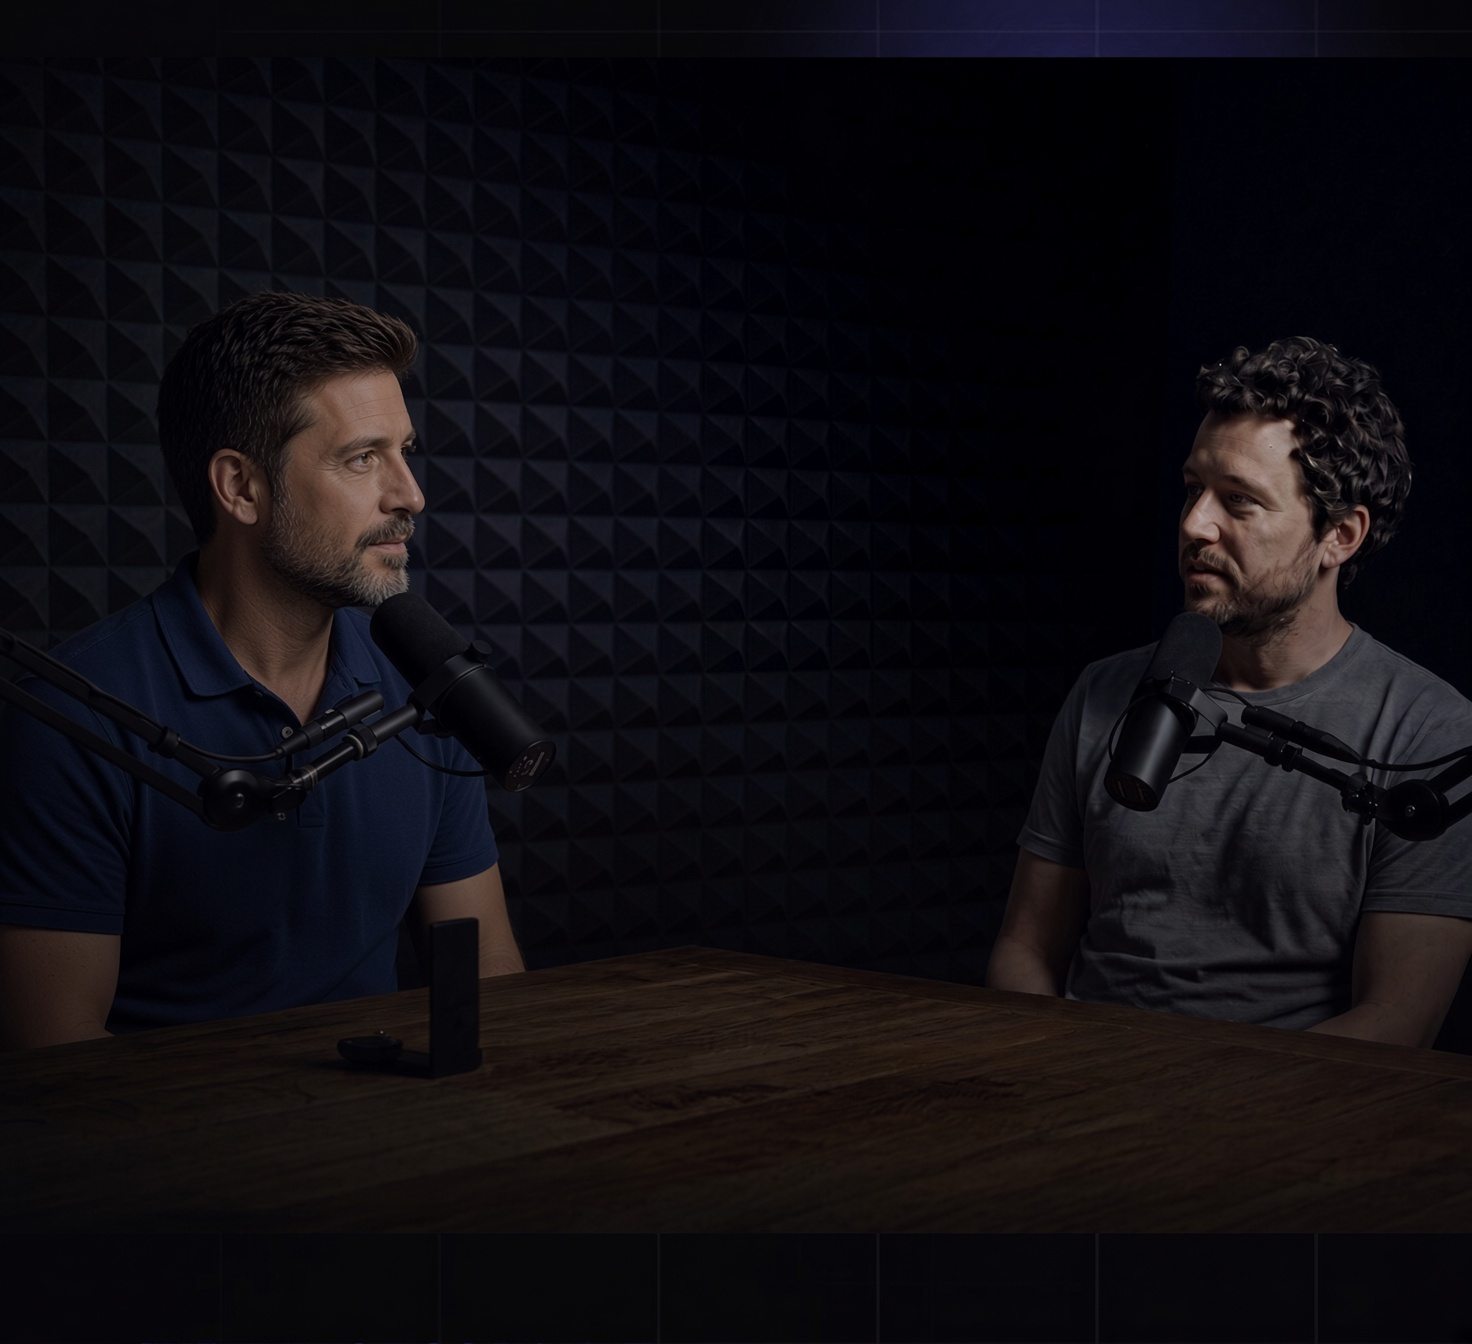
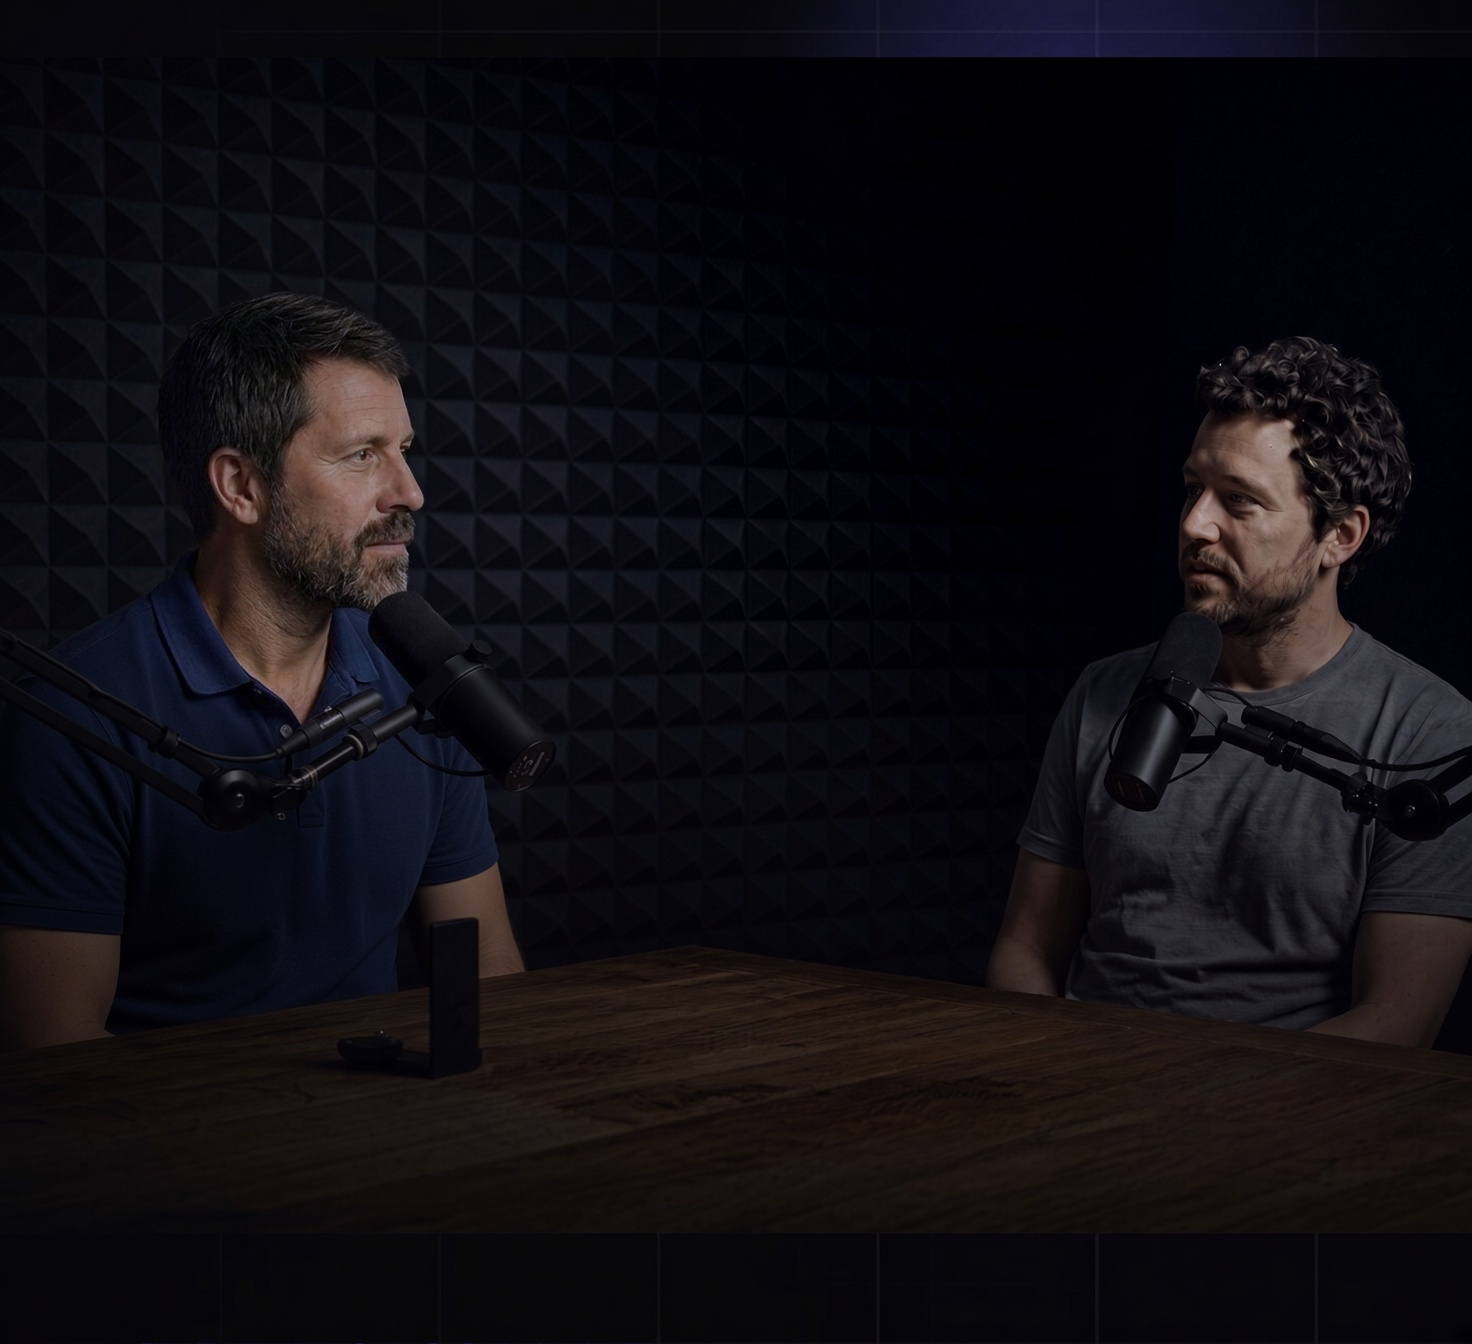
Swap Wes into podcast hero (candidate-4c), bump hero-table cache-buster to v6

Changed region(s): [[0.125, 0.2188, 0.2812, 0.5312]]

diff --git a/about.html b/about.html
@@ -11,11 +11,11 @@
   <meta property="og:description" content="Wes Hart wrote the book and keeps the table with Jonathan Hale. Ordinary Christian dads, not a stage act.">
   <meta property="og:url" content="https://www.walksteadfast.com/about">
   <meta property="og:type" content="website">
-  <meta property="og:image" content="https://www.walksteadfast.com/img/hero-table.jpg?v=5">
+  <meta property="og:image" content="https://www.walksteadfast.com/img/hero-table.jpg?v=6">
   <meta name="twitter:card" content="summary_large_image">
   <meta name="twitter:title" content="The Men — Steadfast Men">
   <meta name="twitter:description" content="Wes Hart wrote the book and keeps the table with Jonathan Hale. Ordinary Christian dads, not a stage act.">
-  <meta name="twitter:image" content="https://www.walksteadfast.com/img/hero-table.jpg?v=5">
+  <meta name="twitter:image" content="https://www.walksteadfast.com/img/hero-table.jpg?v=6">
   <link rel="icon" href="img/logo-lockup.jpg">
   <link rel="stylesheet" href="styles.css?v=266">
 </head>
@@ -62,7 +62,7 @@
       </article>
     </div>
     <div class="wrap" style="margin-top:56px">
-      <img src="img/hero-table.jpg?v=5" alt="Wes Hart and Jonathan Hale at the Steadfast table" style="width:100%;height:520px;object-fit:cover;object-position:center 22%">
+      <img src="img/hero-table.jpg?v=6" alt="Wes Hart and Jonathan Hale at the Steadfast table" style="width:100%;height:520px;object-fit:cover;object-position:center 22%">
     </div>
   </section>
   <section class="socials-band" id="socials">

diff --git a/index.html b/index.html
@@ -11,11 +11,11 @@
   <meta property="og:description" content="A 24-lesson plan for Christian men. Stop waiting. Pick up the weight. Go first. Work for God’s pay.">
   <meta property="og:url" content="https://www.walksteadfast.com/">
   <meta property="og:type" content="website">
-  <meta property="og:image" content="https://www.walksteadfast.com/img/hero-table.jpg?v=5">
+  <meta property="og:image" content="https://www.walksteadfast.com/img/hero-table.jpg?v=6">
   <meta name="twitter:card" content="summary_large_image">
   <meta name="twitter:title" content="Steadfast Men">
   <meta name="twitter:description" content="A 24-lesson plan for Christian men. Stop waiting. Pick up the weight. Go first. Work for God’s pay.">
-  <meta name="twitter:image" content="https://www.walksteadfast.com/img/hero-table.jpg?v=5">
+  <meta name="twitter:image" content="https://www.walksteadfast.com/img/hero-table.jpg?v=6">
   <link rel="icon" href="img/logo-lockup.jpg">
   <link rel="stylesheet" href="styles.css?v=266">
   <script type="application/ld+json">
@@ -43,7 +43,7 @@
   <main id="main">
     <section class="hero hero-film">
       <div class="hero-art">
-        <img src="img/hero-table.jpg?v=5" alt="Two men at the Steadfast table">
+        <img src="img/hero-table.jpg?v=6" alt="Two men at the Steadfast table">
       </div>
       <div class="wrap hero-copy">
         <p class="eyebrow">The way of Godly Men</p>

diff --git a/training.html b/training.html
@@ -82,7 +82,7 @@
   </section>
 
   <section class="train-band">
-    <img class="wash" src="img/hero-table.jpg?v=5" alt="">
+    <img class="wash" src="img/hero-table.jpg?v=6" alt="">
     <div class="wrap">
       <p class="eyebrow">A lesson</p>
       <h2 style="margin:8px 0 28px">Watch. Write. Walk.</h2>

diff --git a/listen.html b/listen.html
@@ -37,7 +37,7 @@
   </header>
 
   <section class="listen-hero">
-    <img class="wash" src="img/hero-table.jpg?v=5" alt="">
+    <img class="wash" src="img/hero-table.jpg?v=6" alt="">
     <div class="wrap">
       <p class="eyebrow">Listen</p>
       <h1>Same walk. In the ear.</h1>
